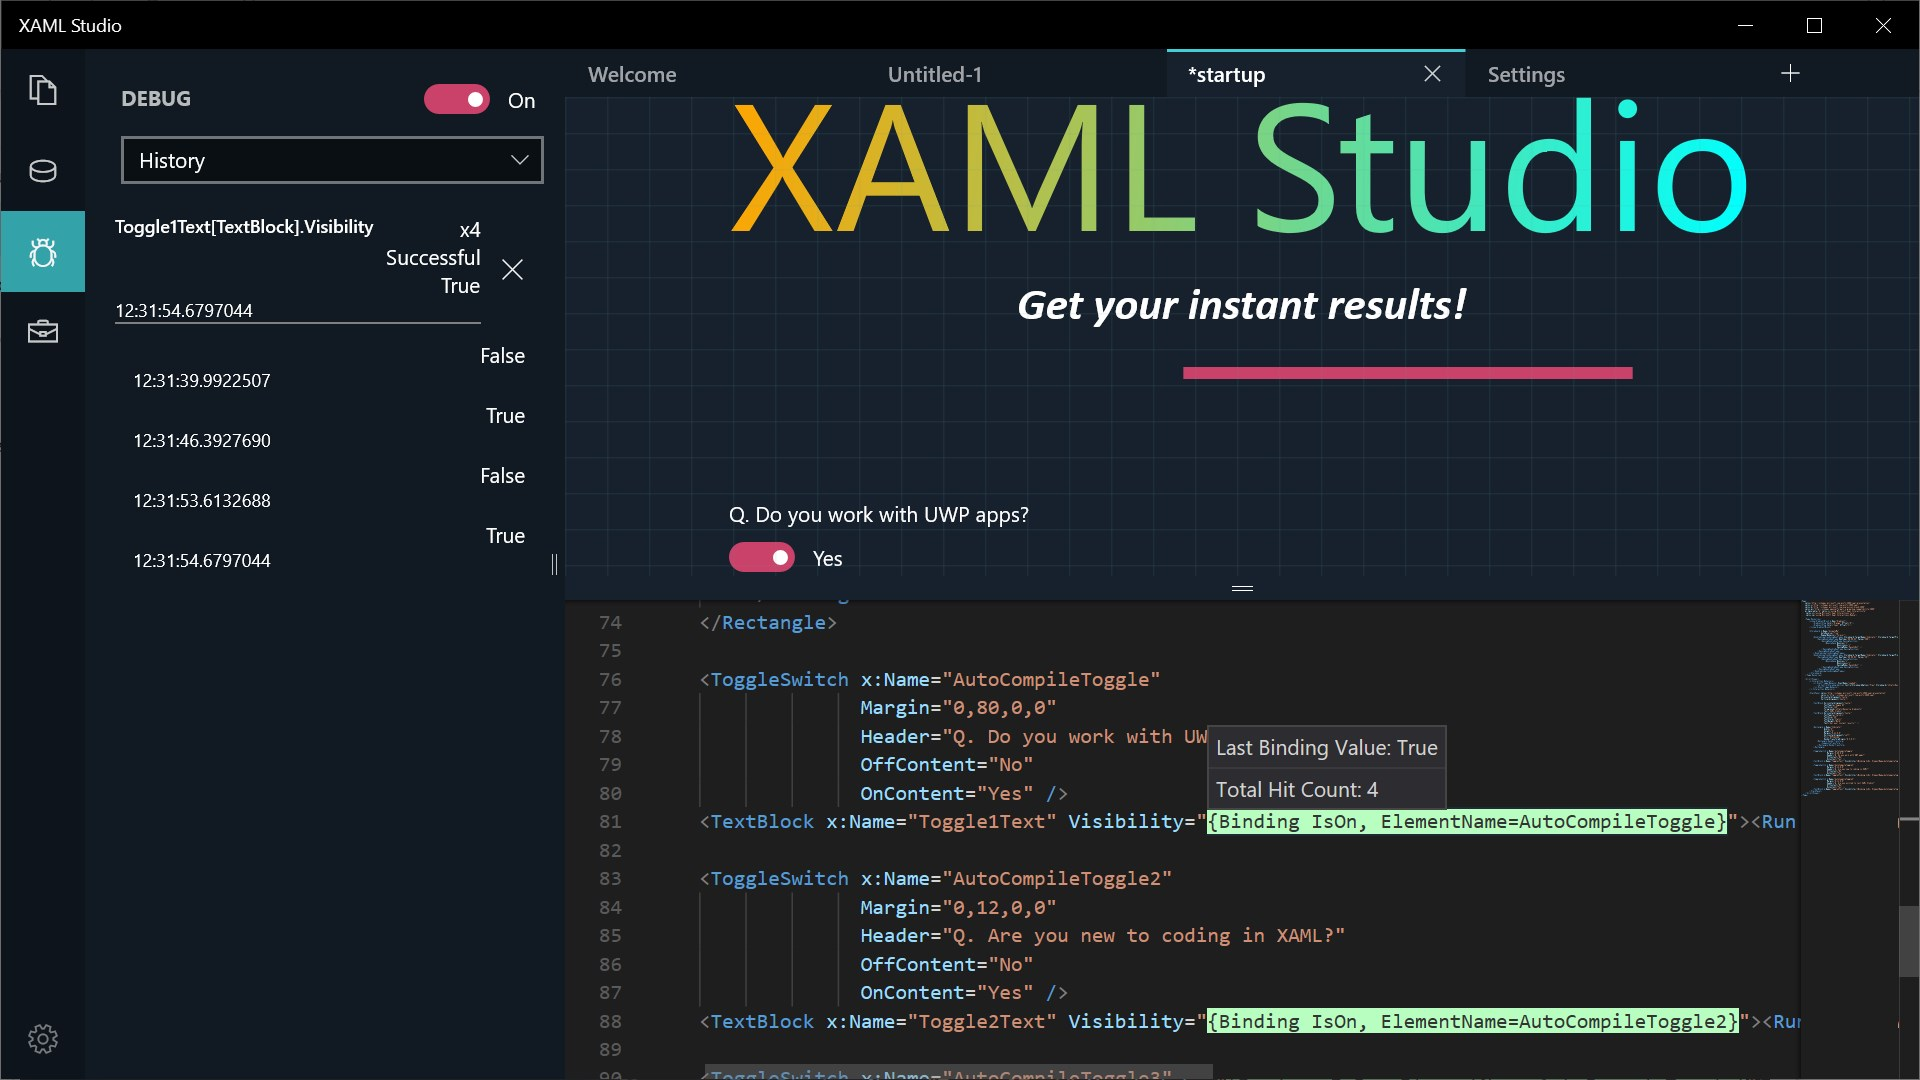
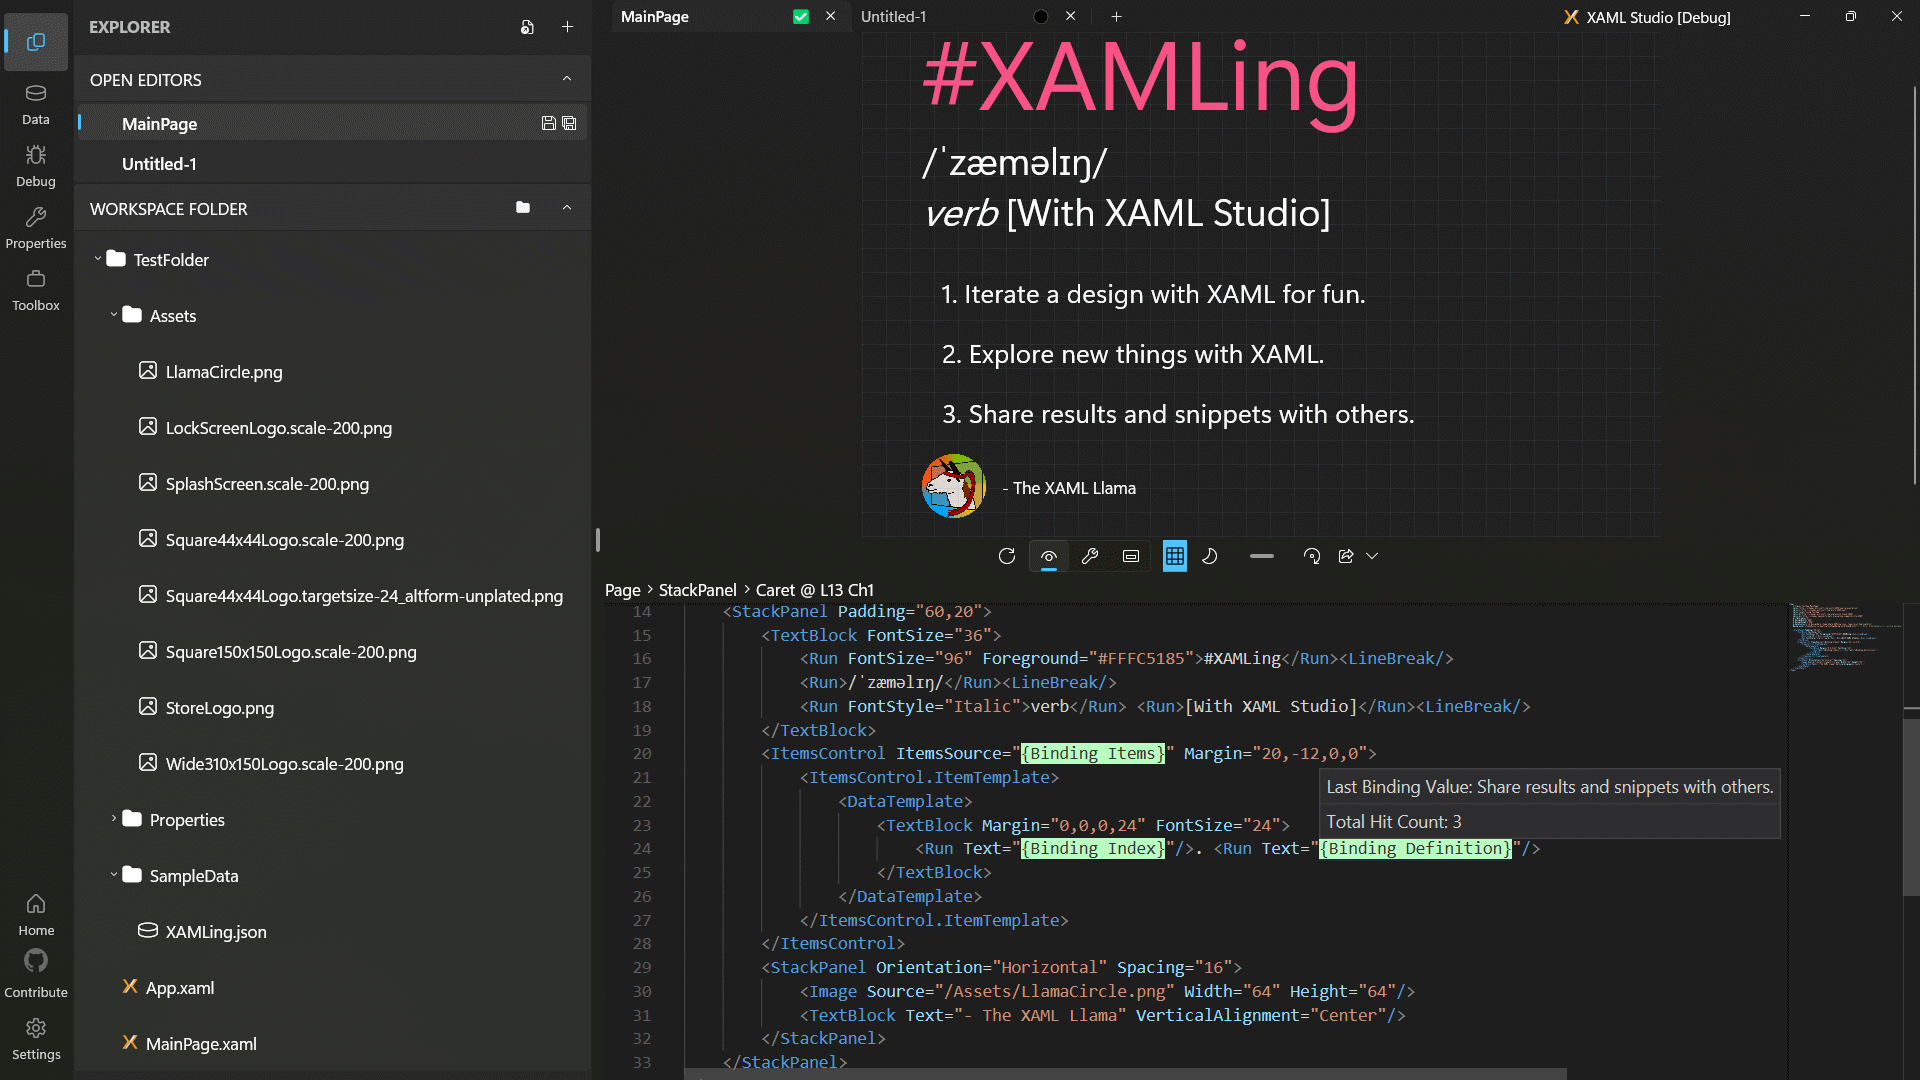
Fixes #23 - Update Image Treatments for Readme for v2
Fix up readme formatting a bit, and call out some notes

diff --git a/README.md b/README.md
@@ -24,7 +24,8 @@ Created for WinUI XAML developers, XAML Studio helps you rapidly prototype ideas
 <p align="center">
 <a href="http://aka.ms/GetXAMLStudio">
 	<img alt="Store badge" src="docs/images/store-badge.png" width="200"/>
-</a>
+</a><br/>
+(Store Version still v1.1)
 </p>
 
 ## New Features in V2
@@ -37,6 +38,8 @@ Created for WinUI XAML developers, XAML Studio helps you rapidly prototype ideas
 - Right-Click Menu to Duplicate the Open Tab
 - Updated Libraries & Bug Fixes
 
+Learn more about these features and provide feedback on them in the [Feature Feedback](https://github.com/dotnet/XAMLStudio/discussions/categories/feature-feedback) discussion category.
+
 ## 🚀 Getting started
 
 Download [XAML Studio from the Microsoft Store](http://aka.ms/GetXAMLStudio) or follow these steps to install it manually:
@@ -45,11 +48,12 @@ Download [XAML Studio from the Microsoft Store](http://aka.ms/GetXAMLStudio) or 
 
 > [!IMPORTANT]
 > XAML Studio requires [Visual Studio 2022](https://visualstudio.microsoft.com/vs/) or later for building and Windows 10 or newer to run.
-If you're new to building apps with WinUI and the Windows App SDK, follow the [installation instructions](https://learn.microsoft.com/windows/apps/get-started/start-here).
+If you're new to building apps with WinUI and the Windows App SDK, follow the [installation instructions](https://learn.microsoft.com/windows/apps/get-started/start-here). (Note: XAML Studio is still a UWP app, so you need the Universal Windows Platform tools as well.)
 
 **Required [Visual Studio components](https://learn.microsoft.com/windows/apps/get-started/start-here#22-required-workloads-and-components):**
 
-- Windows application development
+- Windows application development workload
+- Universal Windows Platform tools
 - Windows 17763 SDK
 
 ### 2. Clone the repository
@@ -70,19 +74,17 @@ Current work is being done on the `dev` branch, not `main`.
 
 Ensure that the `XAMLStudio` project is set as the startup project in Visual Studio.
 
-Press <kbd>F5</kbd> to run AI Dev Gallery!
+Press <kbd>F5</kbd> to run XAML Studio!
 
 > [!NOTE]
-> On ARM64-based PCs, make sure to build and run the solution as `ARM64` (and not as `x64`).
+> On ARM64-based PCs, make sure to build and run the solution as `ARM64` (and not as `x64`). However, there's currently an issue: see #14.
 
 > [!NOTE]
-> Having issues installing the app on your machine? Let us know by <a href="https://github.com/dotnet/XAMLStudio/issues">opening an issue</a> and we'll do our best to help!
+> Having issues installing the app on your machine? Let us know by <a href="https://github.com/dotnet/XAMLStudio/discussions/categories/q-a">opening a discussion</a> and we'll do our best to help!
 
 ## Contributing
 
 This project has adopted the [Microsoft Open Source Code of Conduct](https://opensource.microsoft.com/codeofconduct/). For more information see the [Code of Conduct FAQ](https://opensource.microsoft.com/codeofconduct/faq/) or contact [[email redacted]](mailto:[email redacted]) with any additional questions or comments.
-
-any additional questions or comments.
 
 ## 3rd Party OSS Usage
 